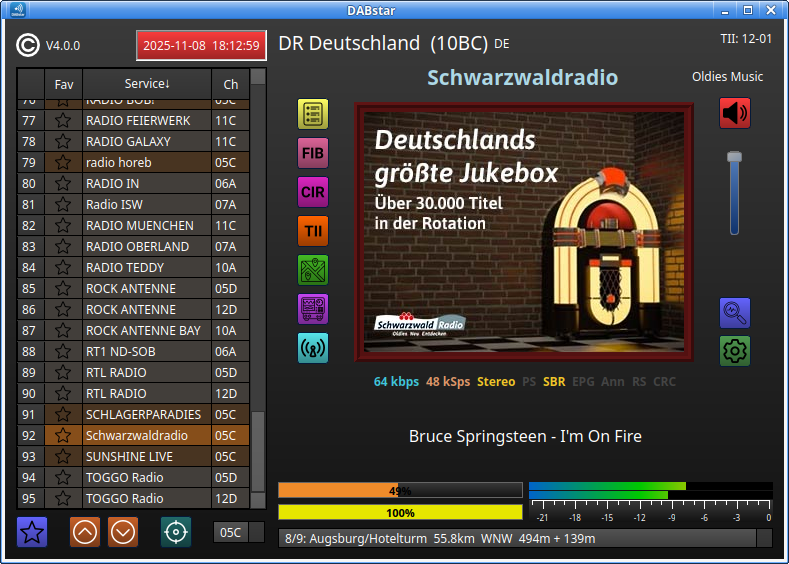
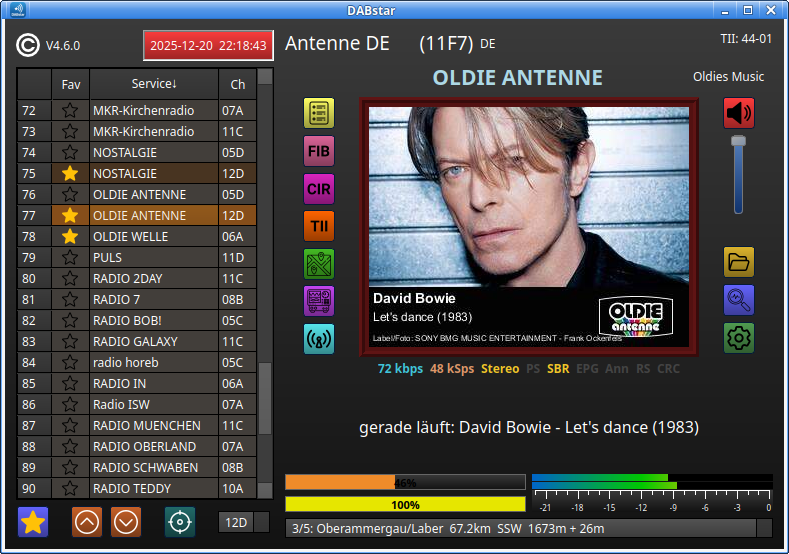
Update README with new pictures and version details
Add images for updated features, including the update dialog, and adjust version description to reflect changes from 4.0.0 to 4.6.0.

diff --git a/README.md b/README.md
@@ -41,7 +41,7 @@
 <!-- TOC -->
 
 ---
-## Pictures from version V4.0.0 
+## Pictures from version V4.0.0 to V4.6.0 
 
 ### Main window                                 
 
@@ -66,6 +66,12 @@
 ### Map view of received transmitters
 
 ![](res/for_readme/map.png)
+
+### DABstar version update dialog
+
+![](res/for_readme/update.png)
+
+(unfortunately, the link coloring could not be made better readable, looks better in Windows)
 
 ### Technical details window of the selected service
 
